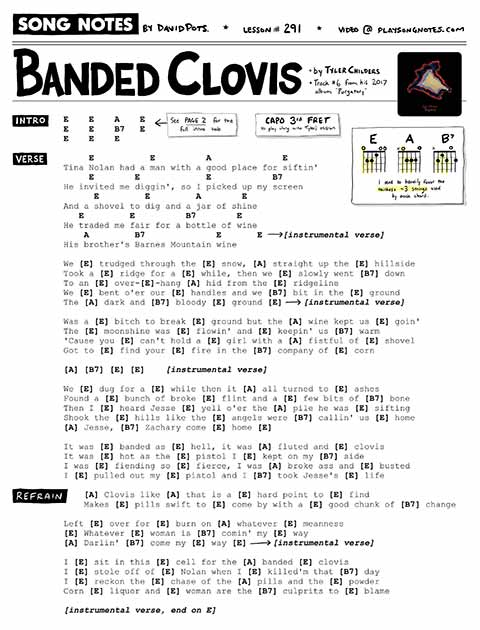
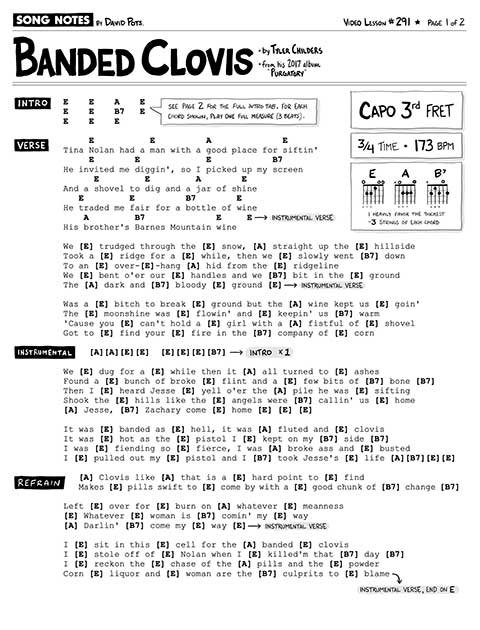
Adds 291 to mn url

Changed region(s): [[0.0, 0.0, 0.9688, 0.9952]]

diff --git a/_lessons/291 - banded clovis - tyler childers.md b/_lessons/291 - banded clovis - tyler childers.md
@@ -9,8 +9,9 @@ category: full_song
 slug: "291"
 yt_video_id: TTDV1wownpI
 date_published: 2020-03-22
-pdf_version: copyright
+pdf_version: musicnotes
 pdf_numpages: 2
+musicnotes_url: https://www.musicnotes.com/l/zVHMW
 patreon_lesson_available: true
 patreon_lesson_url: https://www.patreon.com/posts/35143105
 ---
@@ -35,72 +36,6 @@ Timestamps of what I teach in the lesson:
 - 7:07 Intro (overview & basic melody)
 - 9:15 Intro (adding advanced flourish)
 - 15:20 Farewell
-
-## Lyrics with chords
-
-Capo 3rd fret.
-
-    INTRO (see PDF chord sheet for the tab)
-        E   E   A   E
-        E   E   B7  E
-        E   E   E
-
-    VERSE
-             E           E          A              E
-        Tina Nolan had a man with a good place for siftin'
-             E        E             E            B7
-        He invited me diggin', so I picked up my screen
-              E         E         A        E
-        And a shovel to dig and a jar of shine
-           E         E          B7        E
-        He traded me fair for a bottle of wine
-            A         B7              E       E
-        His brother's Barnes Mountain wine
-
-        [instrumental verse]
-
-        We [E] trudged through the [E] snow, [A] straight up the [E] hillside
-        Took a [E] ridge for a [E] while, then we [E] slowly went [B7] down
-        To an [E] over-[E]-hang [A] hid from the [E] ridgeline
-        We [E] bent o'er our [E] handles and we [B7] bit in the [E] ground
-        The [A] dark and [B7] bloody [E] ground [E]
-
-        [instrumental verse]
-
-        Was a [E] bitch to break [E] ground but the [A] wine kept us [E] goin'
-        The [E] moonshine was [E] flowin' and [E] keepin' us [B7] warm
-        'Cause you [E] can't hold a [E] girl with a [A] fistful of [E] shovel
-        Got to [E] find your [E] fire in the [B7] company of [E] corn
-
-        [A] [B7] [E] [E]  => [instrumental verse]
-
-        We [E] dug for a [E] while then it [A] all turned to [E] ashes
-        Found a [E] bunch of broke [E] flint and a [E] few bits of [B7] bone
-        Then I [E] heard Jesse [E] yell o'er the [A] pile he was [E] sifting
-        Shook the [E] hills like the [E] angels were [B7] callin' us [E] home
-        [A] Jesse, [B7] Zachary come [E] home [E]
-
-        It was [E] banded as [E] hell, it was [A] fluted and [E] clovis
-        It was [E] hot as the [E] pistol I [E] kept on my [B7] side
-        I was [E] fiending so [E] fierce, I was [A] broke ass and [E] busted
-        I [E] pulled out my [E] pistol and I [B7] took Jesse's [E] life
-
-    REFRAIN
-            [A] Clovis like [A] that is a [E] hard point to [E] find
-            Makes [E] pills swift to [E] come by with a [E] good chunk of [B7] change
-
-        Left [E] over for [E] burn on [A] whatever [E] meanness
-        [E] Whatever [E] woman is [B7] comin' my [E] way
-        [A] Darlin' [B7] come my [E] way [E]
-
-        [instrumental verse]
-
-        I [E] sit in this [E] cell for the [A] banded [E] clovis
-        I [E] stole off of [E] Nolan when I [E] killed'm that [B7] day
-        I [E] reckon the [E] chase of the [A] pills and the [E] powder
-        Corn [E] liquor and [E] woman are the [B7] culprits to [E] blame
-
-        [instrumental verse, end on E]
 
 ## Videos of this song
 

diff --git a/backlog.md b/backlog.md
@@ -18,6 +18,7 @@ permalink: /backlog/
 
 Sheet music for the following songs are all available for purchase at Musicnotes.com. Each arrangement is officially licensed & legal, and also uses my latest sheet music formatting.
 
+    Apr 6  - Banded Clovis
     Apr 5  - Walk Right In
     Mar 6  - Lola
     Mar 1  - Under the Bridge
@@ -58,11 +59,10 @@ Sheet music for the following songs are all available for purchase at Musicnotes
     A Million Dreams •          XXXXXXXXX
     Always Remember Us This Way XXXXXXXXXX
     American Girl               XXXXXXXX
-    Banded Clovis •             XXXXXXX
     California Dreaming         XXXXXXXX
     Creep                       XXXXXXXXXX
     Danny's Song •              XXXXXXX
-    Feeling Whitney             XXXXXXXX
+    Feeling Whitney             XXXXXXXXX
     Game of Thrones (theme)     XXXXXXXXXX
     Guantanamara                XXXXXXX
     Let Him Roll                XXXXXXXX
@@ -105,6 +105,7 @@ Sheet music for the following songs are all available for purchase at Musicnotes
     High and Dry                XX
     Honky Tonk Heroes           XX
     I'm a Lonesome Fugitive     X
+    Jenny of Oldstones          X
     Last Kiss                   XX
     Let It Go                   X
     Manhattan Island Serenade   X
